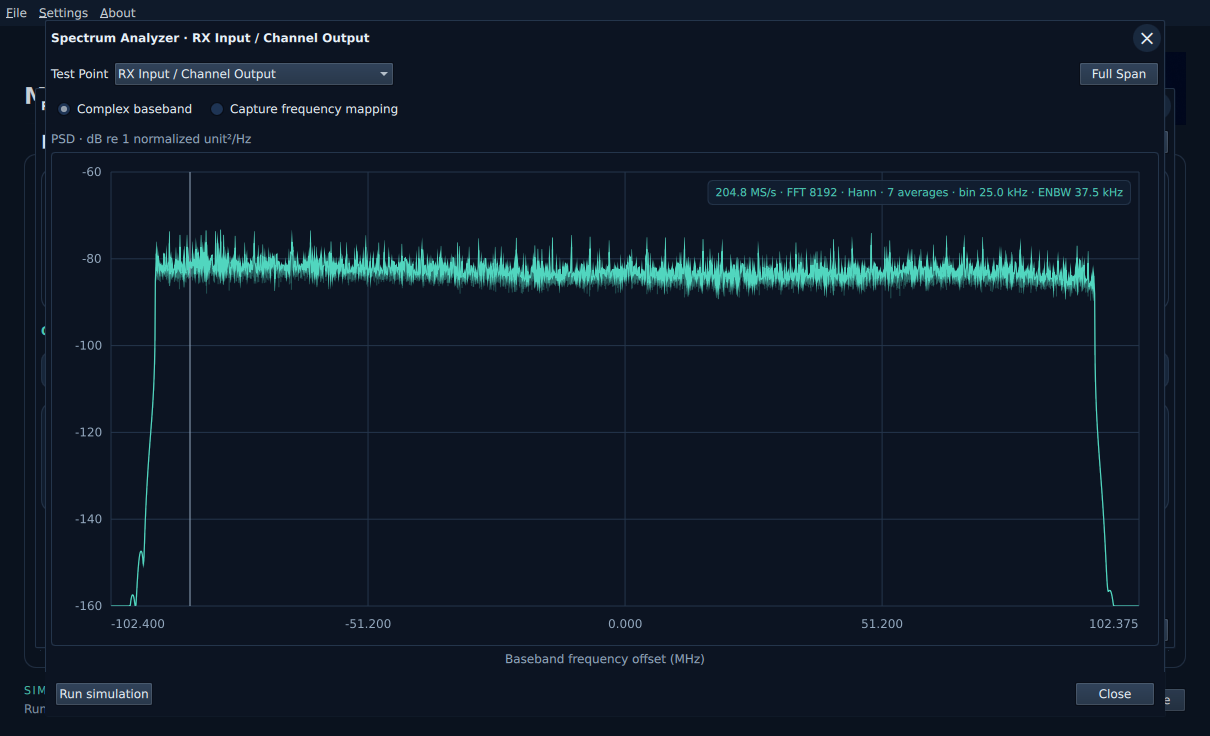
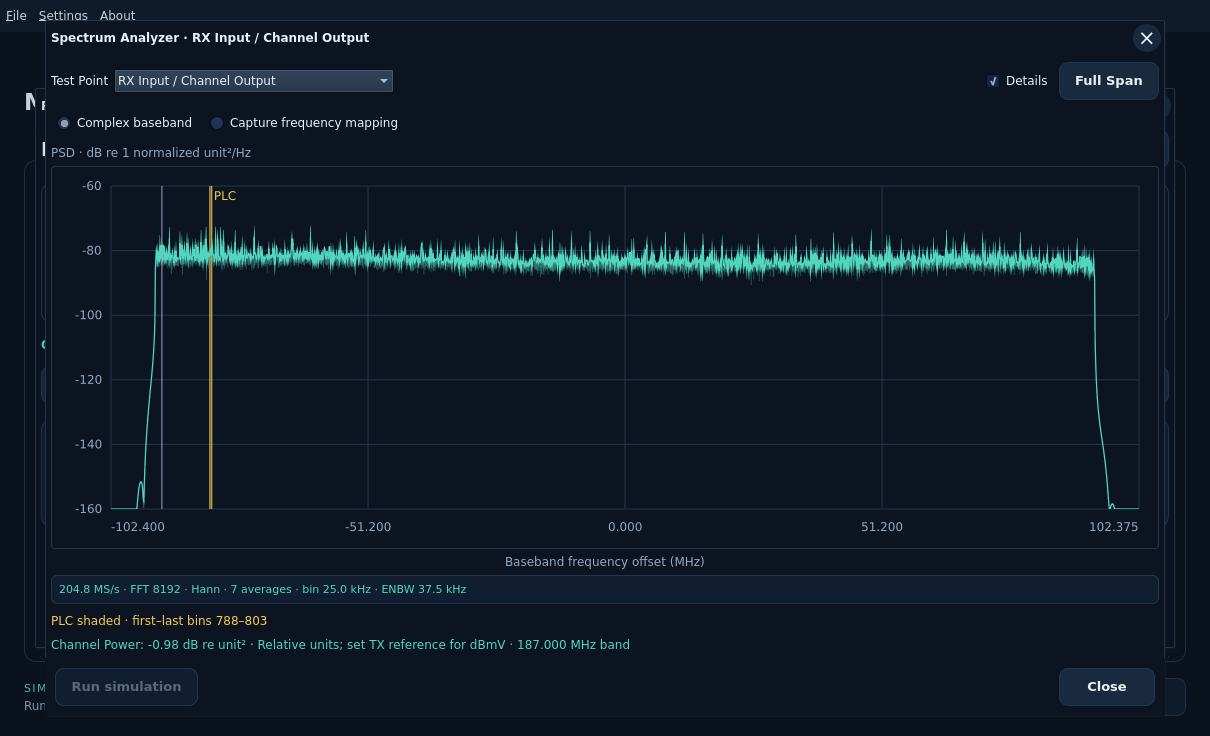
Documentation: Refresh outdated PNG screenshots - Update spectrum, QAM and RxMER examples - Audit light variants and remove unused images - Tests: Check PNG integrity and documentation links

diff --git a/docs/development/features/user-guide-captures/png-audit.md b/docs/development/features/user-guide-captures/png-audit.md
@@ -1,0 +1,135 @@
+# PNG asset audit
+
+UI-DOC-02 reviews the 99 PNGs tracked at the start of this task. There are
+82 workbench images, nine scientific figures and eight branding assets.
+The result is 21 refreshed native screenshots, two unused images removed,
+four historical proposals retained and 72 other assets retained.
+
+All replacement screenshots are unedited native Ubuntu Qt window captures from
+MERLIN 0.2.9. They show actual inputs, previews or simulation results. The
+single workbench supplies completed QAM and spectrum results; multi-rxmer
+supplies the five-input average; multi-rxmer-2 supplies the 132-input replay
+and Designer examples. Designer changes were confined to a disposable draft.
+The calibrated power capture uses an ignored copy of the single workbench
+with a 0 dBmV/6 MHz input reference, 6 dB gain and 6 dB attenuation.
+No shipped workbench or capture input was overwritten.
+
+No light-theme UI PNGs exist in this inventory. The three light branding
+variants were reviewed and retained. Scientific figures document numerical
+analyses; the four labeled proposals remain historical design evidence.
+Some screenshot paths intentionally share the same native view where their
+documentation uses the same instrument state.
+
+## Per-file outcomes
+
+| PNG | Outcome | Review |
+| --- | --- | --- |
+| [channel-estimation-rx-pilots.png](../../../images/channel-estimation-rx-pilots.png) | Retained scientific | Numerical analysis figure, not a desktop UI capture. |
+| [channel-estimation-rx-plc.png](../../../images/channel-estimation-rx-plc.png) | Retained scientific | Numerical analysis figure, not a desktop UI capture. |
+| [constellation-ce-only-after.png](../../../images/constellation-ce-only-after.png) | Retained scientific | Numerical analysis figure, not a desktop UI capture. |
+| [constellation-ce-only-before.png](../../../images/constellation-ce-only-before.png) | Retained scientific | Numerical analysis figure, not a desktop UI capture. |
+| [constellation-ce-only-paired.png](../../../images/constellation-ce-only-paired.png) | Retained scientific | Numerical analysis figure, not a desktop UI capture. |
+| [constellation-pre-ce.png](../../../images/constellation-pre-ce.png) | Retained scientific | Numerical analysis figure, not a desktop UI capture. |
+| [merlin-emblem-dark.png](../../../images/logo/merlin-emblem-dark.png) | Retained branding | Current approved artwork. |
+| [merlin-emblem-light.png](../../../images/logo/merlin-emblem-light.png) | Retained branding | Current approved artwork; light variant reviewed. |
+| [merlin-icon-dark.png](../../../images/logo/merlin-icon-dark.png) | Retained branding | Current approved artwork. |
+| [merlin-icon-light.png](../../../images/logo/merlin-icon-light.png) | Retained branding | Current approved artwork; light variant reviewed. |
+| [merlin-logo-dark-alternate.png](../../../images/logo/merlin-logo-dark-alternate.png) | Retained branding | Current approved artwork. |
+| [merlin-logo-dark-transparent.png](../../../images/logo/merlin-logo-dark-transparent.png) | Retained branding | Current approved artwork. |
+| [merlin-logo-dark.png](../../../images/logo/merlin-logo-dark.png) | Retained branding | Current approved artwork. |
+| [merlin-logo-light.png](../../../images/logo/merlin-logo-light.png) | Retained branding | Current approved artwork; light variant reviewed. |
+| [paired-constellation.png](../../../images/paired-constellation.png) | Retained scientific | Numerical analysis figure, not a desktop UI capture. |
+| [pilots-ce-only-paired.png](../../../images/pilots-ce-only-paired.png) | Retained scientific | Numerical analysis figure, not a desktop UI capture. |
+| [plc-ce-only-paired.png](../../../images/plc-ce-only-paired.png) | Retained scientific | Numerical analysis figure, not a desktop UI capture. |
+| [about-dark.png](../../../images/workbench/about-dark.png) | Refreshed | Current product version and About actions. |
+| [about-menu-dark.png](../../../images/workbench/about-menu-dark.png) | Retained current | Current controls and layout; no stale feature state identified. |
+| [channel-amplifier-dark.png](../../../images/workbench/channel-amplifier-dark.png) | Retained current | Current controls and layout; no stale feature state identified. |
+| [channel-attenuator-dark.png](../../../images/workbench/channel-attenuator-dark.png) | Retained current | Current controls and layout; no stale feature state identified. |
+| [channel-combined-response-dark.png](../../../images/workbench/channel-combined-response-dark.png) | Retained current | Current controls and layout; no stale feature state identified. |
+| [channel-inputs-ready-dark.png](../../../images/workbench/channel-inputs-ready-dark.png) | Retained current | Current controls and layout; no stale feature state identified. |
+| [channel-instrument-icons-dark.png](../../../images/workbench/channel-instrument-icons-dark.png) | Retained current | Current controls and layout; no stale feature state identified. |
+| [channel-loss-dark.png](../../../images/workbench/channel-loss-dark.png) | Retained current | Current controls and layout; no stale feature state identified. |
+| [channel-model-dark.png](../../../images/workbench/channel-model-dark.png) | Retained current | Current controls and layout; no stale feature state identified. |
+| [channel-output-qam-dark.png](../../../images/workbench/channel-output-qam-dark.png) | Refreshed | Small constellation points and TX-reference/nearest MER. |
+| [channel-power-sa-dark.png](../../../images/workbench/channel-power-sa-dark.png) | Refreshed | Calibrated amplifier tap with PLC overlay. |
+| [channel-power-staging-proposal-dark.png](../../../images/workbench/channel-power-staging-proposal-dark.png) | Retained historical | Labeled design proposal, not a current application screenshot. |
+| [channel-qam-mer-dark.png](../../../images/workbench/channel-qam-mer-dark.png) | Refreshed | Shared channel QAM capture with current MER labels. |
+| [channel-response-capture-dark.png](../../../images/workbench/channel-response-capture-dark.png) | Retained current | Current controls and layout; no stale feature state identified. |
+| [channel-response-flat-dark.png](../../../images/workbench/channel-response-flat-dark.png) | Retained current | Current controls and layout; no stale feature state identified. |
+| [channel-workbench-proposal-dark.png](../../../images/workbench/channel-workbench-proposal-dark.png) | Retained historical | Labeled design proposal, not a current application screenshot. |
+| [dpd-design-dark.png](../../../images/workbench/dpd-design-dark.png) | Retained historical | Labeled design proposal, not a current application screenshot. |
+| [dpd-input-dark.png](../../../images/workbench/dpd-input-dark.png) | Retained current | Current controls and layout; no stale feature state identified. |
+| [dpd-profile-bandwidth-dark.png](../../../images/workbench/dpd-profile-bandwidth-dark.png) | Retained current | Current controls and layout; no stale feature state identified. |
+| [dpd-profile-overlays-dark.png](../../../images/workbench/dpd-profile-overlays-dark.png) | Retained current | Current controls and layout; no stale feature state identified. |
+| [dpd-profile-plot-dark.png](../../../images/workbench/dpd-profile-plot-dark.png) | Retained current | Current controls and layout; no stale feature state identified. |
+| [mce-receiver-configuration-dark.png](../../../images/workbench/mce-receiver-configuration-dark.png) | Retained current | Current controls and layout; no stale feature state identified. |
+| [mce-response-comparison-dark.png](../../../images/workbench/mce-response-comparison-dark.png) | Retained current | Current controls and layout; no stale feature state identified. |
+| [mce-waveform-channel-dark.png](../../../images/workbench/mce-waveform-channel-dark.png) | Retained current | Current controls and layout; no stale feature state identified. |
+| [mce-workbench-dark.png](../../../images/workbench/mce-workbench-dark.png) | Retained current | Current controls and layout; no stale feature state identified. |
+| [measurement-mouse-zoom-dark.png](../../../images/workbench/measurement-mouse-zoom-dark.png) | Refreshed | RxMER zoom focused on PLC; caption reconciled. |
+| [ofdm-settings-dark.png](../../../images/workbench/ofdm-settings-dark.png) | Retained current | Current controls and layout; no stale feature state identified. |
+| [open-examples-native-dark.png](../../../images/workbench/open-examples-native-dark.png) | Retained current | Current controls and layout; no stale feature state identified. |
+| [playback-faq-dark.png](../../../images/workbench/playback-faq-dark.png) | Retained current | Current controls and layout; no stale feature state identified. |
+| [prbs-tx-dark.png](../../../images/workbench/prbs-tx-dark.png) | Retained current | Current controls and layout; no stale feature state identified. |
+| [prbs-tx-file-dark.png](../../../images/workbench/prbs-tx-file-dark.png) | Retained current | Current controls and layout; no stale feature state identified. |
+| [readme-workbench-dark.png](../../../images/workbench/readme-workbench-dark.png) | Retained current | Current controls and layout; no stale feature state identified. |
+| [receiver-configuration-dark.png](../../../images/workbench/receiver-configuration-dark.png) | Retained current | Current controls and layout; no stale feature state identified. |
+| [receiver-fec-codewords-dark.png](../../../images/workbench/receiver-fec-codewords-dark.png) | Retained current | Current controls and layout; no stale feature state identified. |
+| [receiver-fec-control-dark.png](../../../images/workbench/receiver-fec-control-dark.png) | Retained current | Current controls and layout; no stale feature state identified. |
+| [receiver-fec-dark.png](../../../images/workbench/receiver-fec-dark.png) | Retained current | Current controls and layout; no stale feature state identified. |
+| [receiver-profile-performance-dark.png](../../../images/workbench/receiver-profile-performance-dark.png) | Retained current | Current controls and layout; no stale feature state identified. |
+| [receiver-qam-earlier-profile-dark.png](../../../images/workbench/receiver-qam-earlier-profile-dark.png) | Refreshed | Earlier profile selection and paired TX-reference MER. |
+| [receiver-qam-mer-dark.png](../../../images/workbench/receiver-qam-mer-dark.png) | Retained current | Current controls and layout; no stale feature state identified. |
+| [receiver-qam-ncp-dark.png](../../../images/workbench/receiver-qam-ncp-dark.png) | Refreshed | Paired NCP raw/equalized views and TX-reference MER. |
+| [receiver-response-dark.png](../../../images/workbench/receiver-response-dark.png) | Retained current | Current controls and layout; no stale feature state identified. |
+| [receiver-slicer-dark.png](../../../images/workbench/receiver-slicer-dark.png) | Retained current | Current controls and layout; no stale feature state identified. |
+| [receiver-spectrum-dark.png](../../../images/workbench/receiver-spectrum-dark.png) | Refreshed | Receiver-input spectrum with PLC overlay. |
+| [receiver-workbench-dark.png](../../../images/workbench/receiver-workbench-dark.png) | Retained current | Current controls and layout; no stale feature state identified. |
+| [rxmer-animation-dark.png](../../../images/workbench/rxmer-animation-dark.png) | Refreshed | Playback active with frame position and PLC band. |
+| [rxmer-capture-configuration-dark.png](../../../images/workbench/rxmer-capture-configuration-dark.png) | Refreshed | Five-input capture controls and PLC band. |
+| [rxmer-designer-dark.png](../../../images/workbench/rxmer-designer-dark.png) | Retained current | Current controls and layout; no stale feature state identified. |
+| [rxmer-designer-main-dark.png](../../../images/workbench/rxmer-designer-main-dark.png) | Refreshed | 50 generated captures, three selected within CWB capacity. |
+| [rxmer-designer-plc-zoom-dark.png](../../../images/workbench/rxmer-designer-plc-zoom-dark.png) | Refreshed | Imported capture zoomed to continuous PLC region. |
+| [rxmer-interpolation-dark.png](../../../images/workbench/rxmer-interpolation-dark.png) | Refreshed | Preview symbol 5 between captures spaced 10 symbols apart. |
+| [rxmer-selection-dark.png](../../../images/workbench/rxmer-selection-dark.png) | Refreshed | 23 of 132 selected within the CWB replay capacity. |
+| [rxmer-single-dark.png](../../../images/workbench/rxmer-single-dark.png) | Retained current | Current controls and layout; no stale feature state identified. |
+| [sa-mouse-zoom-dark.png](../../../images/workbench/sa-mouse-zoom-dark.png) | Refreshed | Mapped spectrum zoom with PLC band and full timing. |
+| [sa-timing-proposal-dark.png](../../../images/workbench/sa-timing-proposal-dark.png) | Retained historical | Labeled design proposal, not a current application screenshot. |
+| [sa-tx-baseband-dark.png](../../../images/workbench/sa-tx-baseband-dark.png) | Refreshed | Baseband spectrum with PLC overlay and current timing. |
+| [sa-tx-mapped-dark.png](../../../images/workbench/sa-tx-mapped-dark.png) | Refreshed | Capture frequency mapping, PLC band and full two-symbol timing. |
+| [settings-global-dark.png](../../../images/workbench/settings-global-dark.png) | Retained current | Current controls and layout; no stale feature state identified. |
+| [symbol-timing-expanded-dark.png](../../../images/workbench/symbol-timing-expanded-dark.png) | Refreshed | Full duration and enlarged overlap with usable guard. |
+| [transmitter-dpd-tree-dark.png](../../../images/workbench/transmitter-dpd-tree-dark.png) | Retained current | Current controls and layout; no stale feature state identified. |
+| [transmitter-mapped-dark.png](../../../images/workbench/transmitter-mapped-dark.png) | Retained current | Current controls and layout; no stale feature state identified. |
+| [transmitter-message-bytes-dark.png](../../../images/workbench/transmitter-message-bytes-dark.png) | Retained current | Current controls and layout; no stale feature state identified. |
+| [transmitter-messages-dark.png](../../../images/workbench/transmitter-messages-dark.png) | Retained current | Current controls and layout; no stale feature state identified. |
+| [transmitter-ordered-cells-dark.png](../../../images/workbench/transmitter-ordered-cells-dark.png) | Retained current | Current controls and layout; no stale feature state identified. |
+| [transmitter-output-sa-dark.png](../../../images/workbench/transmitter-output-sa-dark.png) | Refreshed | Shared actual TX spectrum, PLC overlay and full timing. |
+| [transmitter-physical-bins-dark.png](../../../images/workbench/transmitter-physical-bins-dark.png) | Retained current | Current controls and layout; no stale feature state identified. |
+| `transmitter-qam-interleaved-dark.png` | Removed | Unused obsolete transmitter image; no maintained references. |
+| [transmitter-source-dark.png](../../../images/workbench/transmitter-source-dark.png) | Retained current | Current controls and layout; no stale feature state identified. |
+| [transmitter-stage-dark.png](../../../images/workbench/transmitter-stage-dark.png) | Retained current | Current controls and layout; no stale feature state identified. |
+| [transmitter-workbench-dark.png](../../../images/workbench/transmitter-workbench-dark.png) | Retained current | Current controls and layout; no stale feature state identified. |
+| `transmitter-workbench-proposal.png` | Removed | Unused obsolete transmitter image; no maintained references. |
+| [updates-dark.png](../../../images/workbench/updates-dark.png) | Refreshed | Actual up-to-date result; no fabricated available release. |
+| [verification-results-dark.png](../../../images/workbench/verification-results-dark.png) | Retained current | Current controls and layout; no stale feature state identified. |
+| [workbench-completed-elapsed-dark.png](../../../images/workbench/workbench-completed-elapsed-dark.png) | Retained current | Current controls and layout; no stale feature state identified. |
+| [workbench-configuration-profiles-dark.png](../../../images/workbench/workbench-configuration-profiles-dark.png) | Retained current | Current controls and layout; no stale feature state identified. |
+| [workbench-configuration-run-dark.png](../../../images/workbench/workbench-configuration-run-dark.png) | Retained current | Current controls and layout; no stale feature state identified. |
+| [workbench-controls-dark.png](../../../images/workbench/workbench-controls-dark.png) | Retained current | Current controls and layout; no stale feature state identified. |
+| [workbench-entry-dark.png](../../../images/workbench/workbench-entry-dark.png) | Retained current | Current controls and layout; no stale feature state identified. |
+| [workbench-header-dark.png](../../../images/workbench/workbench-header-dark.png) | Retained current | Current controls and layout; no stale feature state identified. |
+| [workbench-loading-dark.png](../../../images/workbench/workbench-loading-dark.png) | Retained current | Current controls and layout; no stale feature state identified. |
+| [workbench-loading-debug-dark.png](../../../images/workbench/workbench-loading-debug-dark.png) | Retained current | Current controls and layout; no stale feature state identified. |
+| [workbench-multi-rxmer-dark.png](../../../images/workbench/workbench-multi-rxmer-dark.png) | Refreshed | Five-input bundled multi-rxmer example, average mode. |
+| [workbench-running-elapsed-dark.png](../../../images/workbench/workbench-running-elapsed-dark.png) | Retained current | Current controls and layout; no stale feature state identified. |
+
+## Validation
+
+- Built the current native Qt executable successfully (2 min 23 s).
+- Captured actual completed simulations and native preview/playback states.
+- Decoded every remaining PNG and checked its PNG chunk checksums.
+- Checked replacement bytes against their original native captures.
+- Checked maintained documentation links and removed-image references.
+- Ran `git diff --check`. No Rust or QML source changed; no full test suite run.
+- Linux capture evidence does not establish Windows installer or updater validation.

diff --git a/docs/development/features/user-guide-captures/design.md b/docs/development/features/user-guide-captures/design.md
@@ -82,3 +82,26 @@ No source changed and no build or automated simulation suite was run.
 | [verification-results-dark.png](../../../images/workbench/verification-results-dark.png) | Refreshed native capture |
 | [workbench-header-dark.png](../../../images/workbench/workbench-header-dark.png) | Refreshed native capture |
 | [workbench-multi-rxmer-dark.png](../../../images/workbench/workbench-multi-rxmer-dark.png) | Refreshed native capture |
+
+## UI-DOC-02: Audit all tracked PNGs and refresh stale UI captures
+
+Audit all 99 tracked PNG assets, including the 82 workbench files, against the
+current Qt interface. Refresh outdated spectrum/timing, QAM/MER, RxMER/PLC and
+About captures from the built native application; specifically include
+sa-tx-mapped-dark.png and sa-mouse-zoom-dark.png. Keep actual scientific plots
+and clearly labeled historical design illustrations separate from native UI.
+Remove unused obsolete screenshots, reconcile references, and retain still-current
+shared assets instead of manufacturing different data for an unchanged window.
+Check any existing light-theme variants too; the current tracked inventory has
+light branding PNGs but no published light-theme native UI screenshots.
+
+Stage captures/automation under ignored local/png-refresh, preserve example/input
+files and capture native pixels without recoloring or UI mockups. Record one
+audit outcome per PNG and validate image integrity, maintained links and diff
+whitespace. This task does not change scientific code or authorize commit/push.
+
+### Completed audit
+
+See the [per-file PNG audit](png-audit.md) for all 99 original assets,
+including refreshed native screenshots, retained light branding, historical
+proposals, removed unused images and validation evidence.

diff --git a/docs/development/checklist.md b/docs/development/checklist.md
@@ -1309,3 +1309,9 @@ validation are complete; the user guide includes the current dark capture.
   approval/cancel, MSI failure/rollback, 3010 handling, shortcut/location
   preservation and unelevated WB recovery. Local Linux checks do not establish
   these Windows installer lifecycle results.
+
+### Documentation PNG audit
+
+- [x] **UI-DOC-02** Review every tracked PNG and existing light variant;
+  refresh outdated native captures and reconcile obsolete images/references.
+  [Design](features/user-guide-captures/design.md#ui-doc-02-audit-all-tracked-pngs-and-refresh-stale-ui-captures).

diff --git a/docs/user/channel-measurements.md b/docs/user/channel-measurements.md
@@ -10,7 +10,7 @@ select a range. **Full Span** resets the view. There are no +/- zoom buttons.
 Click the plot for keyboard +/- zoom and Home reset. Changing a capture or metric
 resets the range; zoom only queries retained input data.
 
-![Shared measurement mouse navigation](../images/workbench/measurement-mouse-zoom-dark.png)
+![RxMER measurement zoomed to the PLC region](../images/workbench/measurement-mouse-zoom-dark.png)
 
 Apply a DPD first. Inputs must match its device, channel, frequency origin,
 subcarrier spacing and complete source grid. Merely overlapping frequencies do
